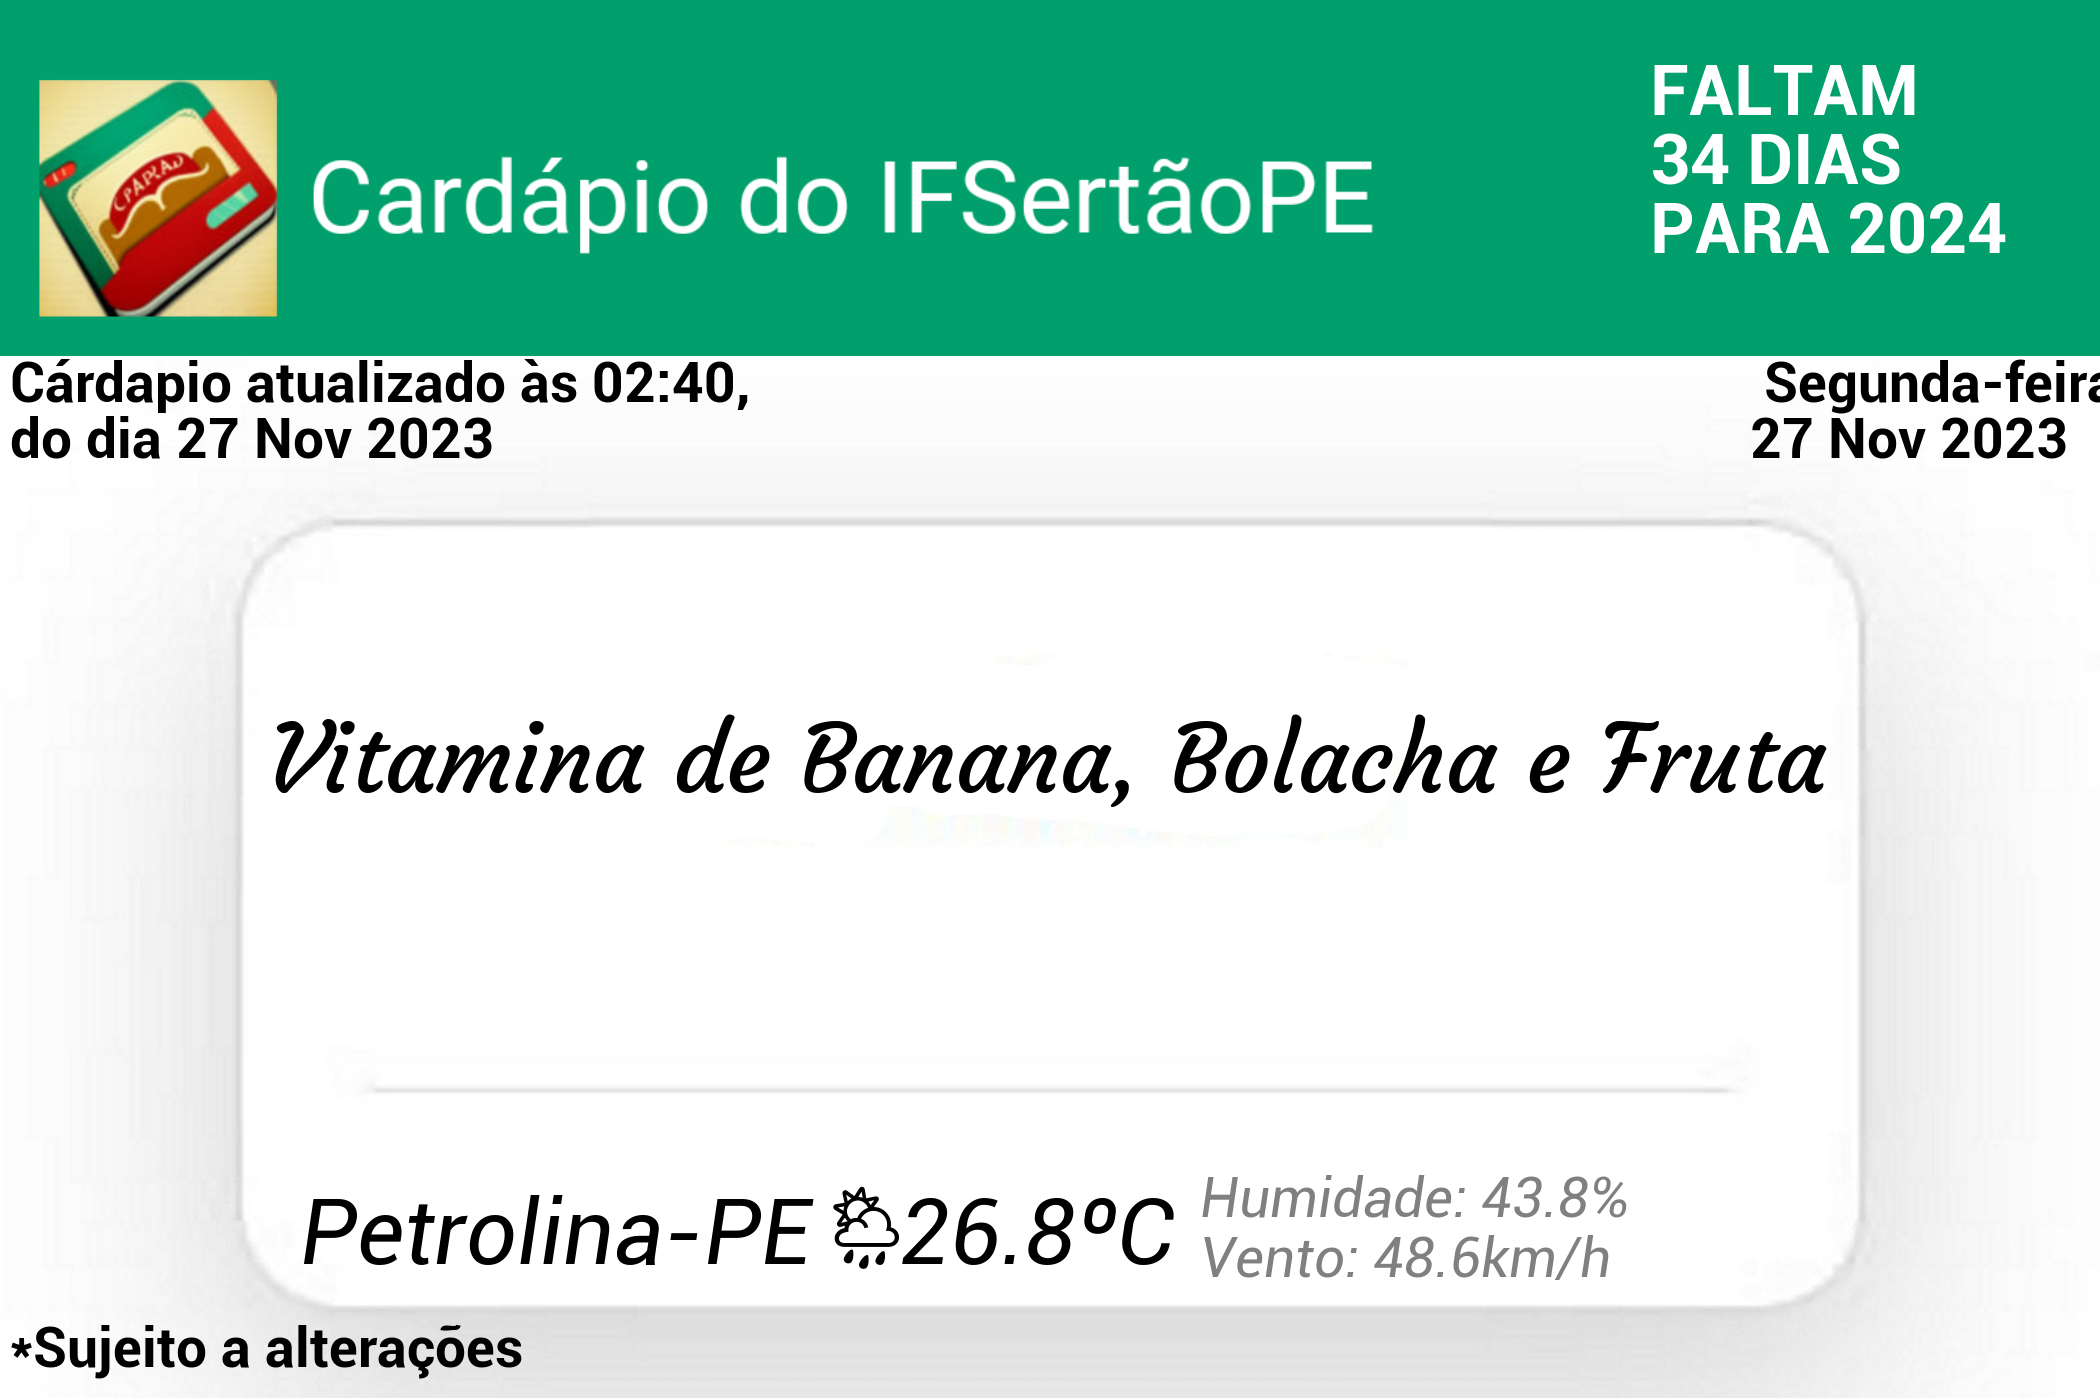
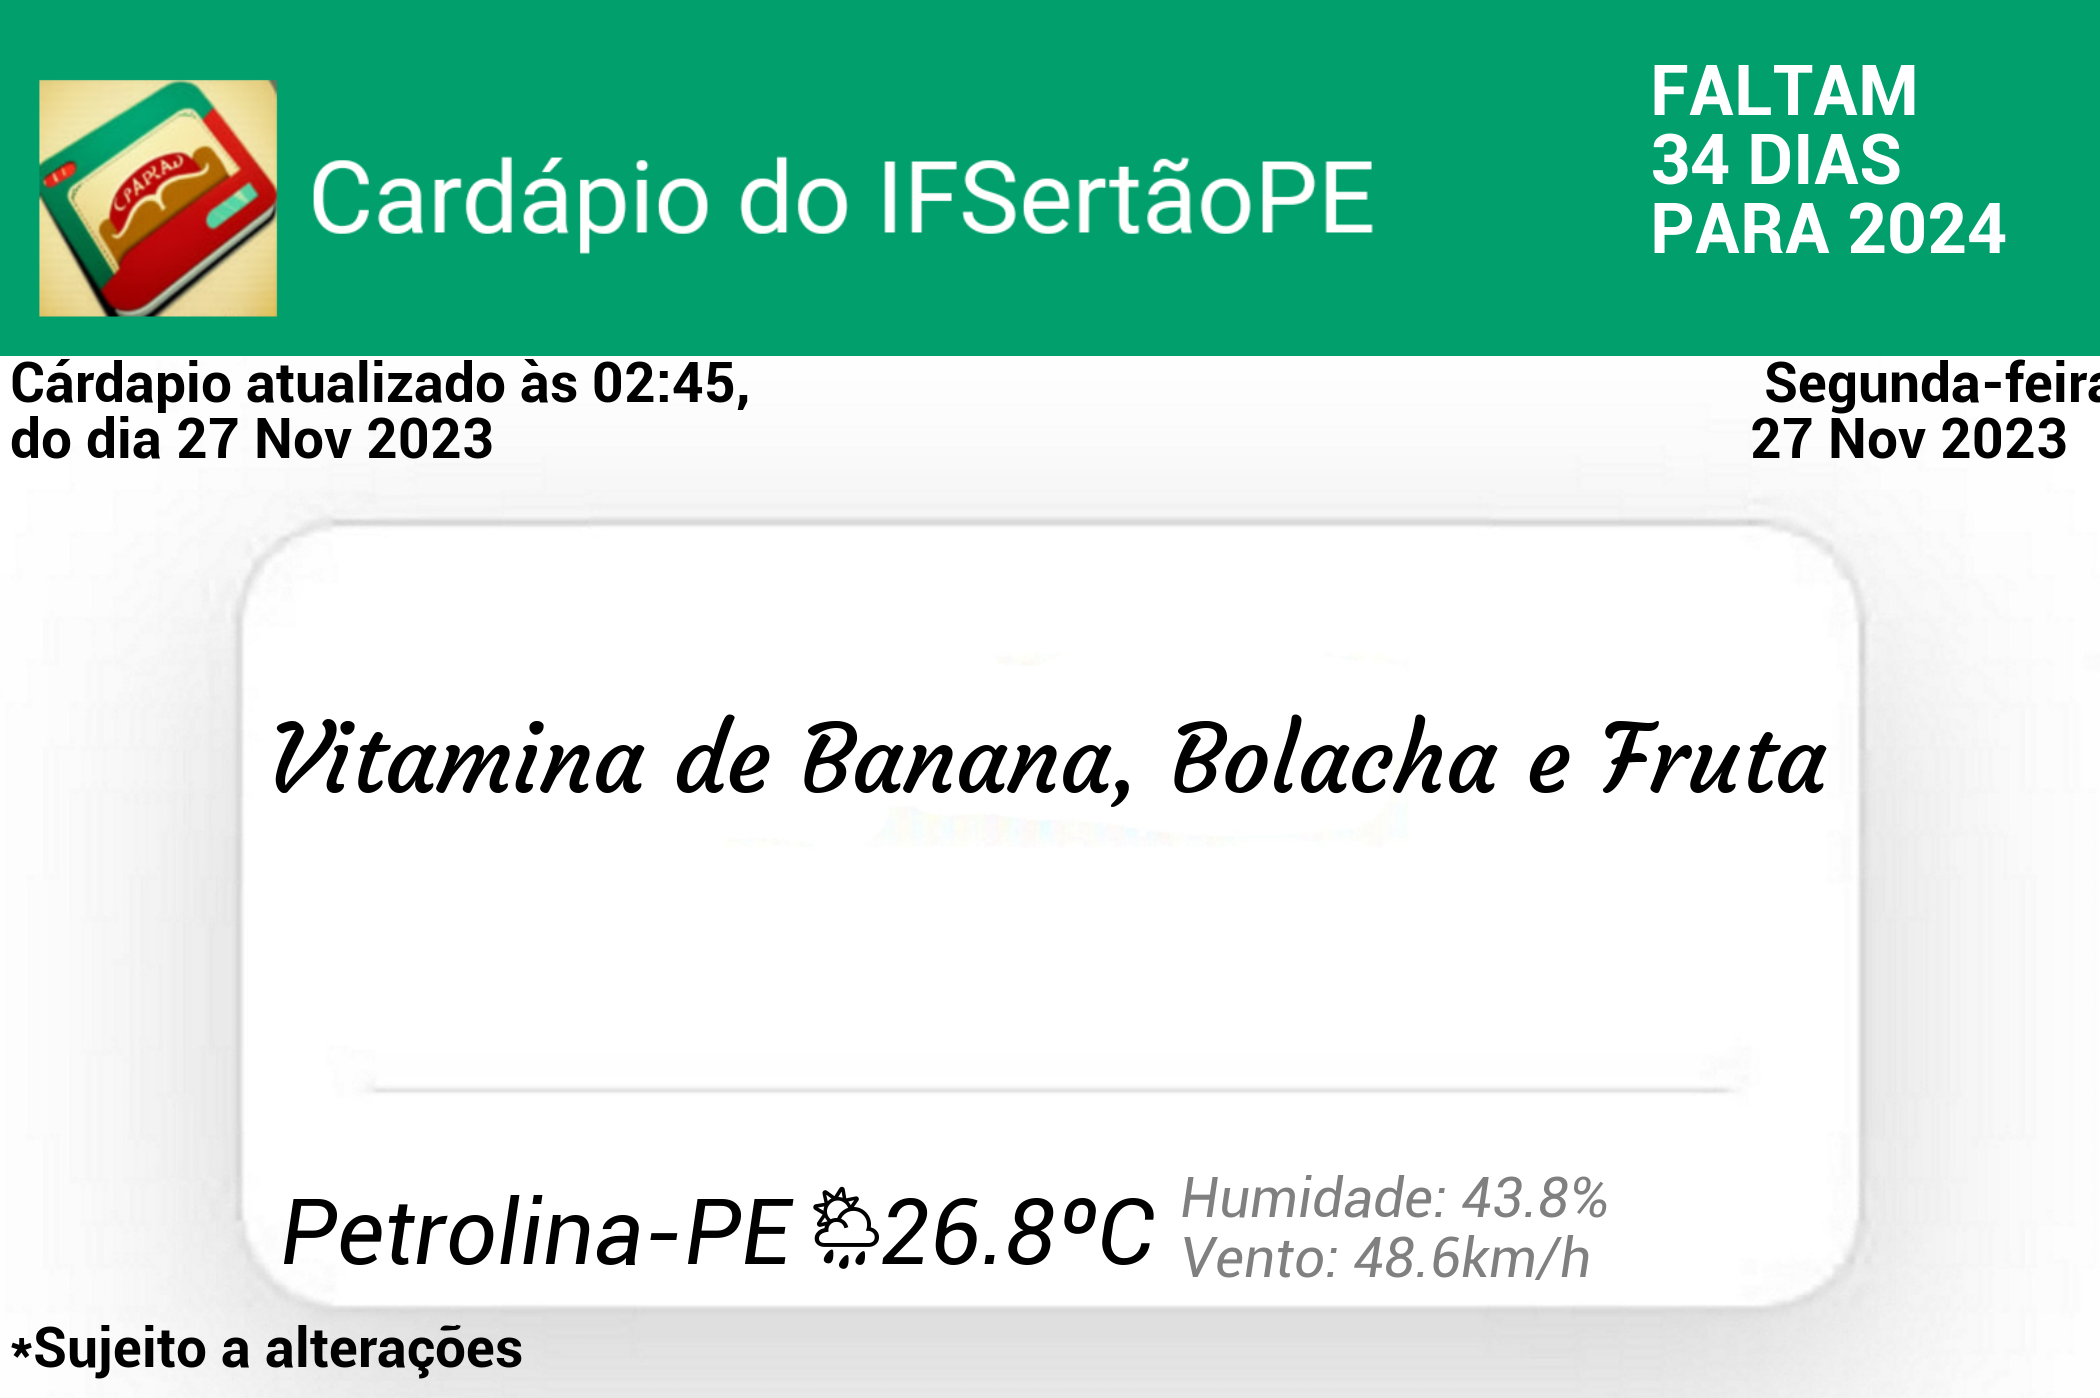
create api climate

Changed region(s): [[0.1238, 0.8305, 0.7738, 0.9227]]

diff --git a/src/create_template.py b/src/create_template.py
@@ -47,10 +47,10 @@ def _create_painel_food_(food_name:str,path:str='test.png'):
     
     
     
-    draw.text((300,1180),f"Petrolina-PE    {data_now['temperature']:.1f}ºC","#000",font=font_climate)
-    draw.text((1200,1165),f'Humidade: {data_now["humidity"]:.1f}%','grey',font=font_climate_small)
-    draw.text((1200,1225),f'Vento: {(data_now["v"]*3.6):.1f}km/h','grey',font=font_climate_small)
-    draw.text((815,1180),get_emoji_cloud(65),'#000',font=font_emoji)
+    draw.text((280,1180),f"Petrolina-PE    {data_now['temperature']:.1f}ºC","#000",font=font_climate)
+    draw.text((1180,1165),f'Humidade: {data_now["humidity"]:.1f}%','grey',font=font_climate_small)
+    draw.text((1180,1225),f'Vento: {(data_now["v"]*3.6):.1f}km/h','grey',font=font_climate_small)
+    draw.text((795,1180),get_emoji_cloud(65),'#000',font=font_emoji)
     
     x = resize_for_text(food_name)
     draw.text((x,700),food_name,'#000',font=font_food_name)
